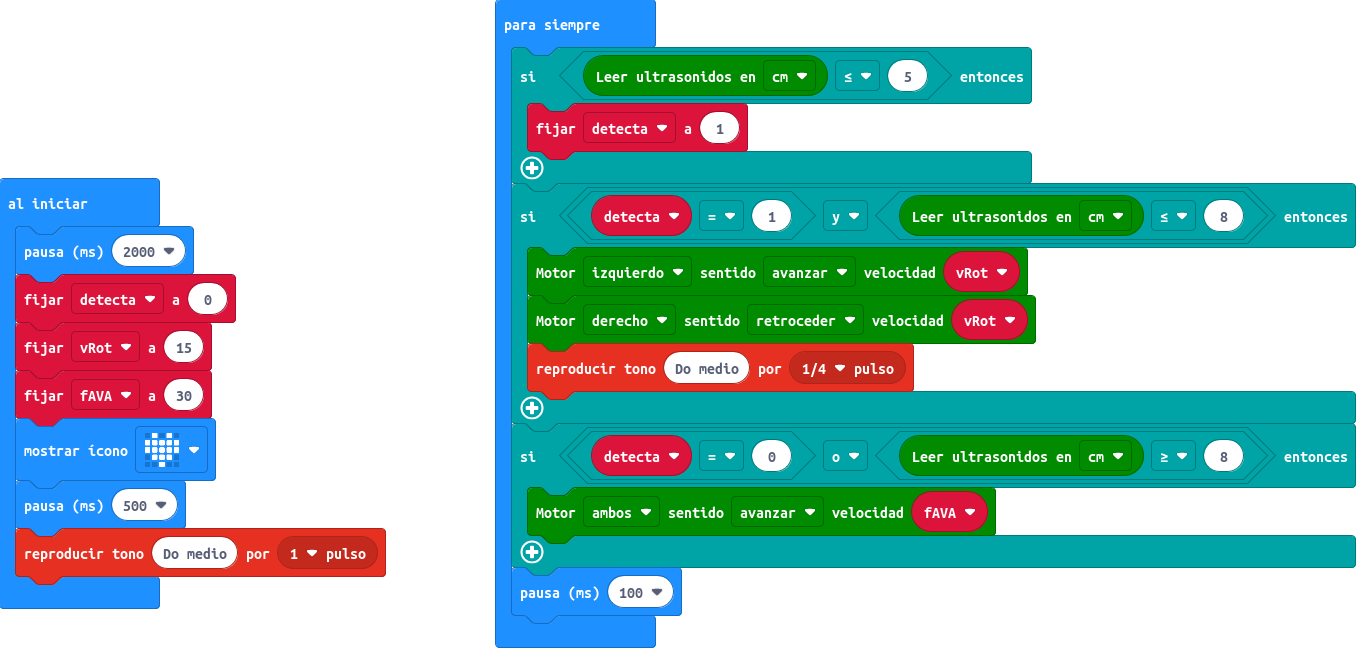
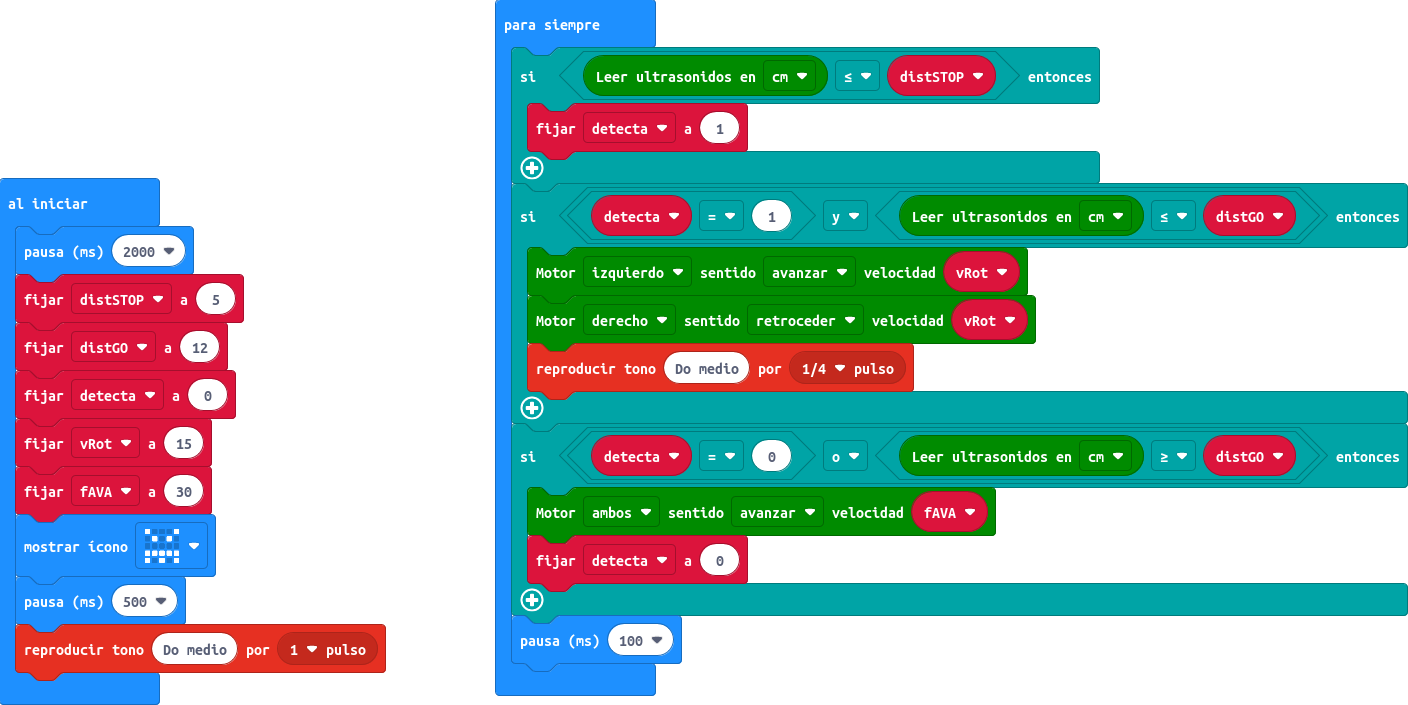
Cambiando condiciones y variables

diff --git a/main.ts b/main.ts
@@ -1,21 +1,24 @@
 basic.pause(2000)
+let distSTOP = 5
+let distGO = 12
 let detecta = 0
 let vRot = 15
 let fAVA = 30
-basic.showIcon(IconNames.Heart)
+basic.showIcon(IconNames.Angry)
 basic.pause(500)
 music.playTone(262, music.beat(BeatFraction.Whole))
 basic.forever(function () {
-    if (maqueen.Ultrasonic(PingUnit.Centimeters) <= 5) {
+    if (maqueen.Ultrasonic(PingUnit.Centimeters) <= distSTOP) {
         detecta = 1
     }
-    if (detecta == 1 && maqueen.Ultrasonic(PingUnit.Centimeters) <= 8) {
+    if (detecta == 1 && maqueen.Ultrasonic(PingUnit.Centimeters) <= distGO) {
         maqueen.motorRun(maqueen.Motors.M1, maqueen.Dir.CW, vRot)
         maqueen.motorRun(maqueen.Motors.M2, maqueen.Dir.CCW, vRot)
         music.playTone(262, music.beat(BeatFraction.Quarter))
     }
-    if (detecta == 0 || maqueen.Ultrasonic(PingUnit.Centimeters) >= 8) {
+    if (detecta == 0 || maqueen.Ultrasonic(PingUnit.Centimeters) >= distGO) {
         maqueen.motorRun(maqueen.Motors.All, maqueen.Dir.CW, fAVA)
+        detecta = 0
     }
     basic.pause(100)
 })
